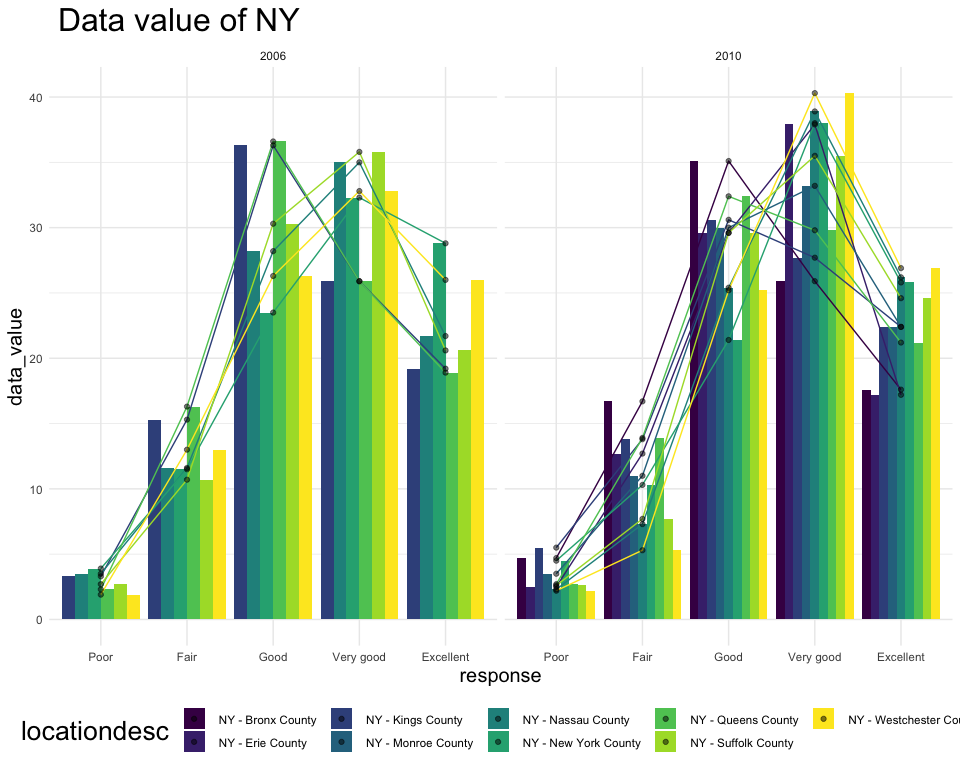
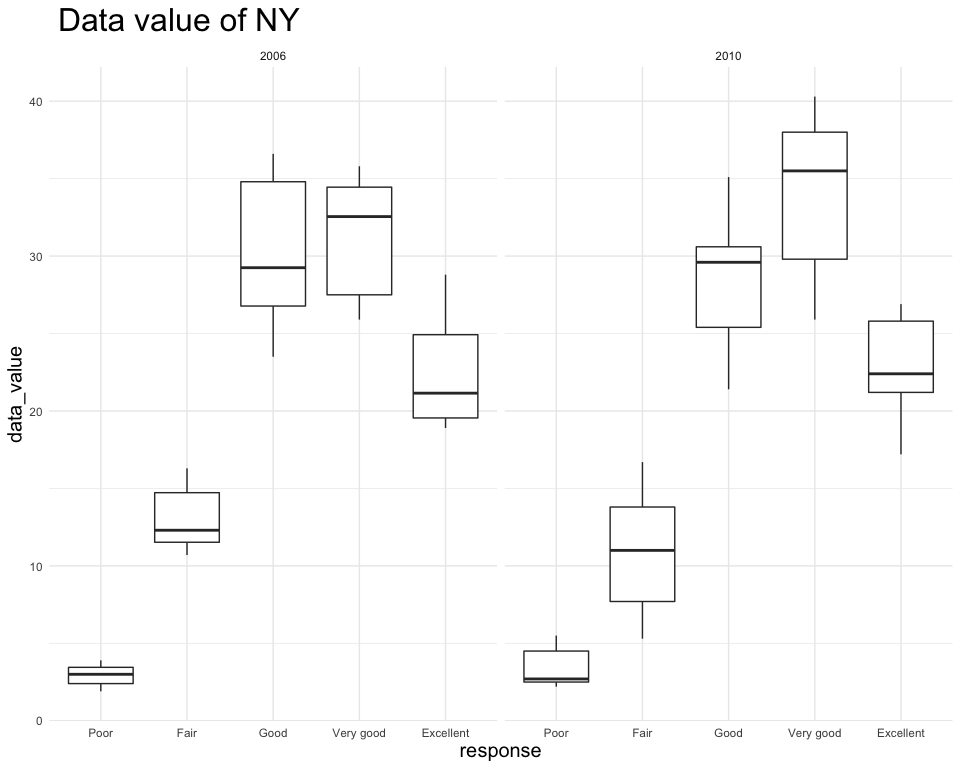
Add boxplot for problem2.

diff --git a/p8105_hw3_wx2233.md b/p8105_hw3_wx2233.md
@@ -352,8 +352,8 @@ ext_avg_data_value %>%
 
 <img src="p8105_hw3_wx2233_files/figure-gfm/unnamed-chunk-11-1.png" width="90%" />
 
-The average data value fluctuates by years for each state, around 15 to
-25.
+The average data value fluctuates by years for each state. And the
+average values are different among each state.
 
 ### c)
 
@@ -362,6 +362,21 @@ NY_data_value = brfss %>%
   filter(year == 2006 | year == 2010,state == "NY") %>%
   select(year,state,locationdesc,response,data_value)
 
+
+#boxplot: distribtion among locations. 
+NY_data_value %>%
+ggplot(aes(x = response, y = data_value)) +
+  geom_boxplot() +
+  labs(
+    title = " Data value of NY"
+  ) +
+  facet_grid(. ~ year) 
+```
+
+<img src="p8105_hw3_wx2233_files/figure-gfm/unnamed-chunk-12-1.png" width="90%" />
+
+``` r
+#bar plot: to see the difference of each locationdesc
 NY_data_value %>%
 ggplot(aes(x = response, y = data_value,fill = locationdesc)) +
   geom_bar(stat = "identity", position = "dodge") +
@@ -373,10 +388,12 @@ ggplot(aes(x = response, y = data_value,fill = locationdesc)) +
   facet_grid(. ~ year)
 ```
 
-<img src="p8105_hw3_wx2233_files/figure-gfm/unnamed-chunk-12-1.png" width="90%" />
+<img src="p8105_hw3_wx2233_files/figure-gfm/unnamed-chunk-12-2.png" width="90%" />
 
-Only 6 counties’ data are collected in 2006 while 9 counties in 2010.
-And the Good and Very good response are most common in both two years.
+We can see that Only 6 counties’ data are collected in 2006 while 9
+counties in 2010. The data value of “Poor” response is lowest in both
+two years and the “Good” and “Very good” response are higher in both two
+years.
 
 ## Problem 3
 
